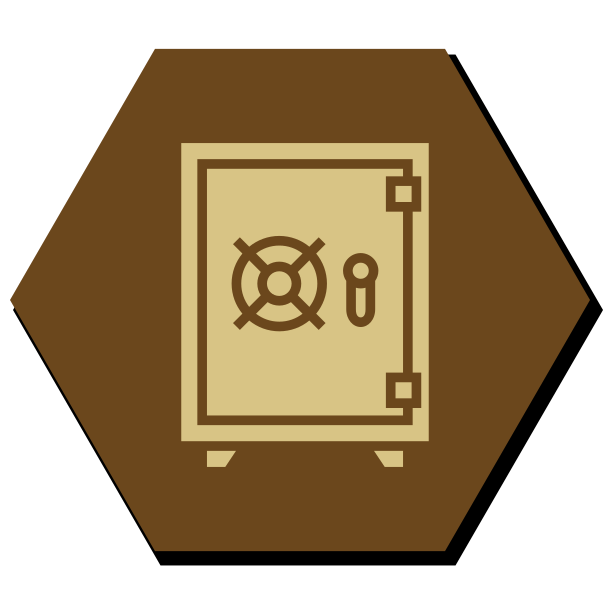
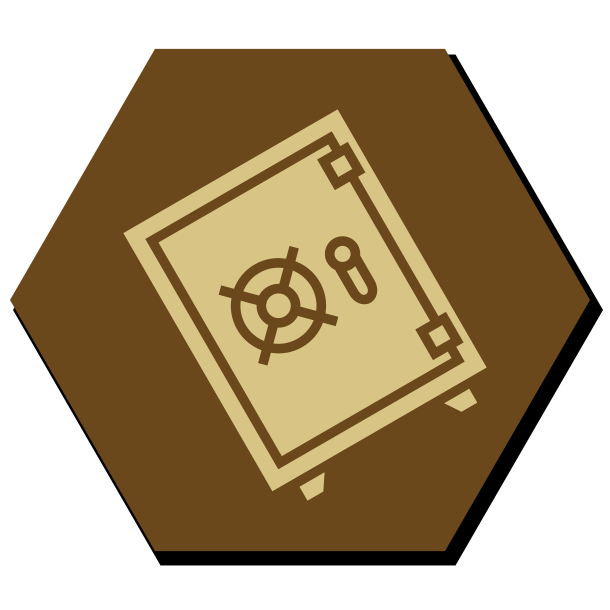
add safe and item officially

Changed region(s): [[0.1869, 0.1869, 0.8098, 0.841]]

diff --git a/src/chits.rb b/src/chits.rb
@@ -78,6 +78,7 @@ files = %w(
   keycard-lock
   kennel
   safe
+  item
 )
 # For TTS
 Squib::Deck.new(width: 600, height: 600, cards: files.size) do
